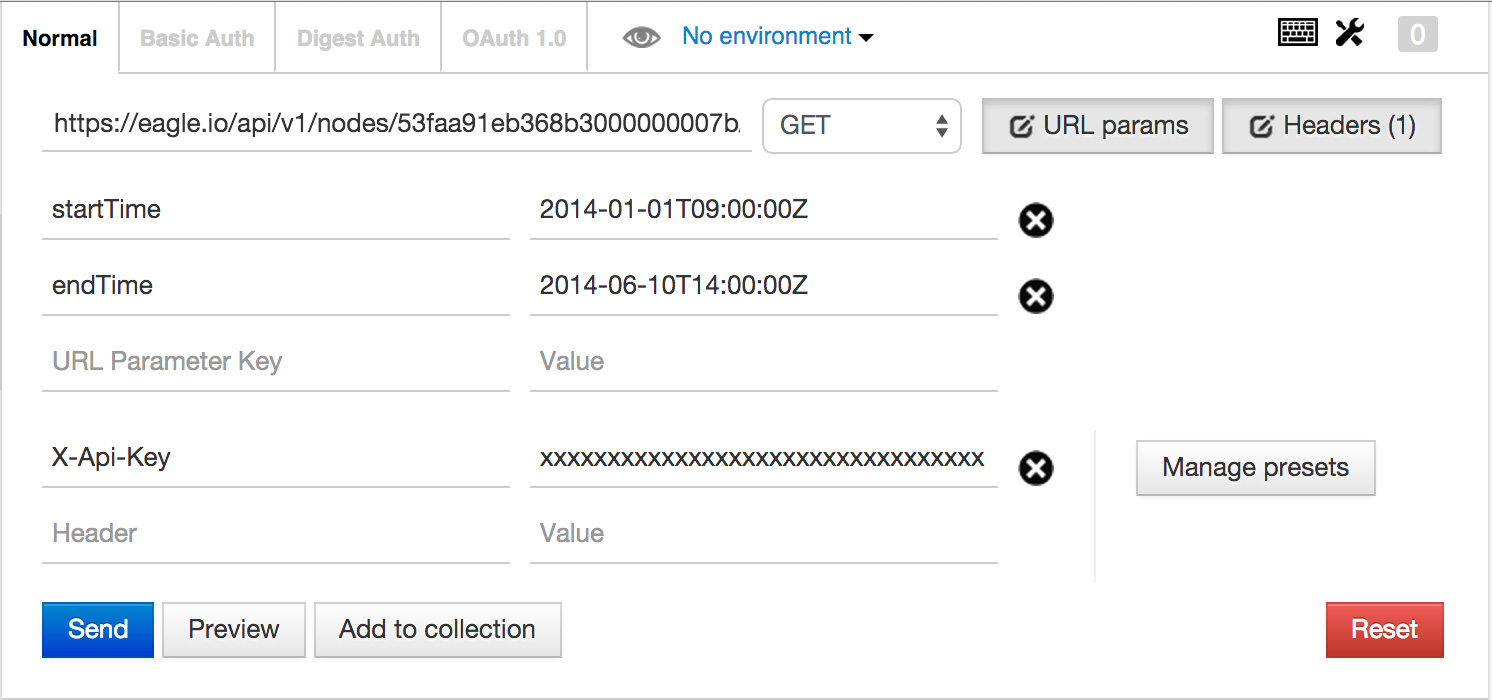
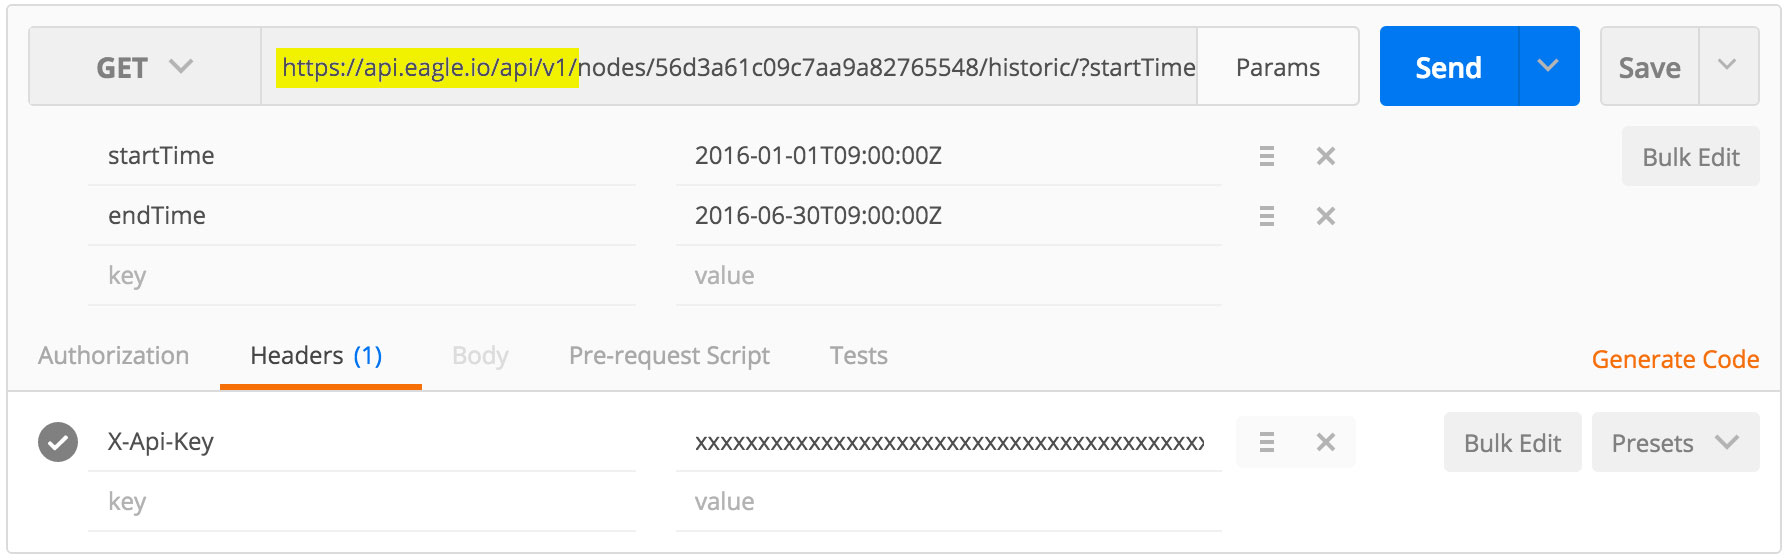
update api host

diff --git a/source/api/resources/nodes.rst b/source/api/resources/nodes.rst
@@ -29,7 +29,6 @@ Consumers of Nodes should tolerate the addition of new attributes and variance i
     **alarms**                          Object      Yes         Alarm configuration and status
     **createdTime**                     Time                    :ref:`ISO8601<time-format-iso8601>` timestamp the node was created
     **isActive**                        Boolean                 Flag to indicate if node is active
-    **metadata**                        Array                   Array of metadata fields and values
     **name**                            String      Yes         Name of node
     **ownerId**                         ObjectId                Unique owner _id
     **parentId**                        ObjectId                Parent node _id (not included in Workspace)
@@ -72,6 +71,7 @@ Consumers of Nodes should tolerate the addition of new attributes and variance i
     **displayType**                     String      Yes         Default display type of parameter: 
                                                                 *[VALUE, STATE]*
     **format**                          String      Yes         Formatting to apply to displayed value
+    **metadata**                        Array                   Array of metadata fields and values for a location
     **multiplier**                      Double      Yes         Value to multiply rawValue and historic data on extraction. 
                                                                 Applies to number parameters only
     **offset**                          Double      Yes         Value to add to rawValue and historic data on extraction. 
@@ -368,7 +368,6 @@ Response
         "_id": "536884ecb5a76fd5d3000014",
         "createdTime": "2014-05-06T06:45:00.061Z",
         "isActive": true,
-        "metadata": [],
         "name": "My Workspace",
         "ownerId": "52969365593a1a3a3200000f"
     }
@@ -438,7 +437,6 @@ Response
         "_id": "536884ecb5a76fd5d3000014",
         "createdTime": "2014-05-06T06:45:00.061Z",
         "isActive": true,
-        "metadata": [],
         "name": "My Renamed Workspace",
         "ownerId": "52969365593a1a3a3200000f"
     }

diff --git a/source/api/overview/index.rst b/source/api/overview/index.rst
@@ -21,7 +21,7 @@ Authentication
 You authenticate to the eagle.io API by providing one of your :ref:`API keys <user-api-keys>` in the **X-Api-Key** request header::
 
     GET /api/v1/nodes/
-    Host: eagle.io
+    Host: api.eagle.io
     X-Api-Key: xxxxxxxxxxxxxxxxxxxxxxxxxxxxx
 
 You can manage your API keys from your :ref:`user preferences <user-preferences>`. You can have multiple API keys active at one time. Your API keys carry many privileges, so be sure to keep them secret.
@@ -55,8 +55,8 @@ The following HTTP methods are used to determine which action to take on a parti
 
 ::
 
-    POST /api/v1/nodes/542a5a129bc9b4035f906d70
-    Host: eagle.io
+    POST /api/v1/nodes/5a2a5a129bc9b4035f906d70
+    Host: api.eagle.io
     X-Api-Key: xxxxxxxxxxxxxxxxxxxxxxxxxxxxx
     X-HTTP-Method-Override: DELETE
 
@@ -310,7 +310,7 @@ Example request for inserting historic data:
 ::
 
     POST /api/v1/nodes/542a5a129bc9b4035f906d70/historic/
-    Host: eagle.io
+    Host: api.eagle.io
     X-Api-Key: xxxxxxxxxxxxxxxxxxxxxxxxxxxxx
     Content-Type: application/json
 
@@ -348,7 +348,6 @@ Example response from a Nodes GET request:
         "displayType": "VALUE",
         "format": "0.###",
         "isActive": true,
-        "metadata": [],
         "name": "Temperature",
         "oldestStateId": "541a58dc9bc9b4035f906938",
         "oldestTime": "2014-02-13T22:58:53.000Z",
@@ -384,7 +383,7 @@ Versioning
 The API version number is specified as part of the URL.
 **v1** is the currently supported version and has a base URL::
 
-    https://eagle.io/api/v1/
+    https://api.eagle.io/api/v1/
 
 As we make updates and additions to the eagle.io API, we will only make changes, add new features and/or implement fixes to the current released API that do not affect backward compatibility.
 
